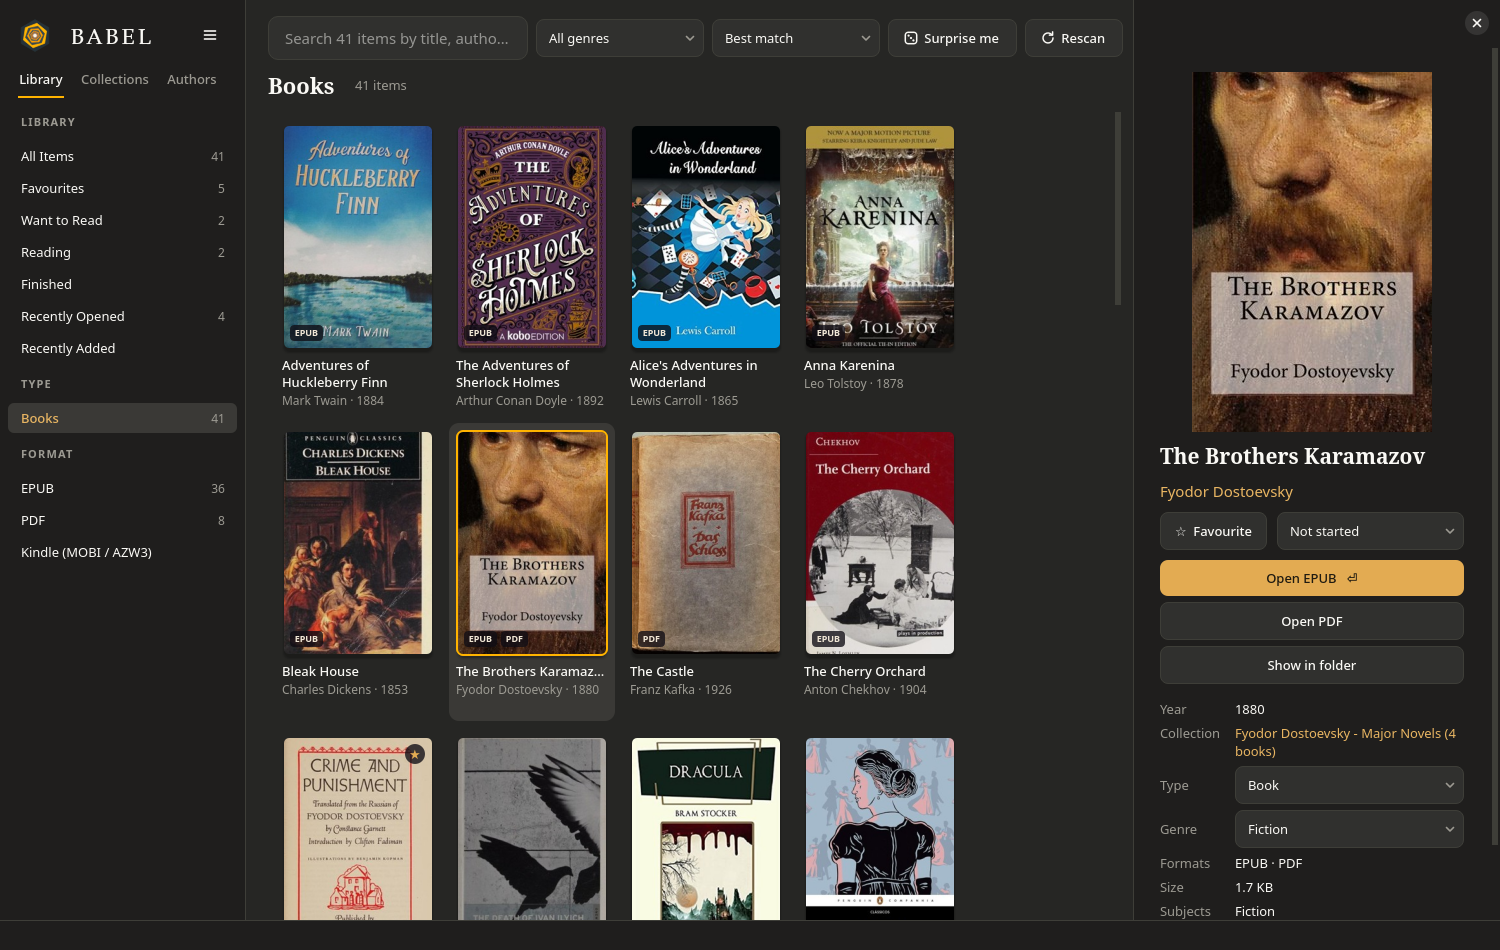
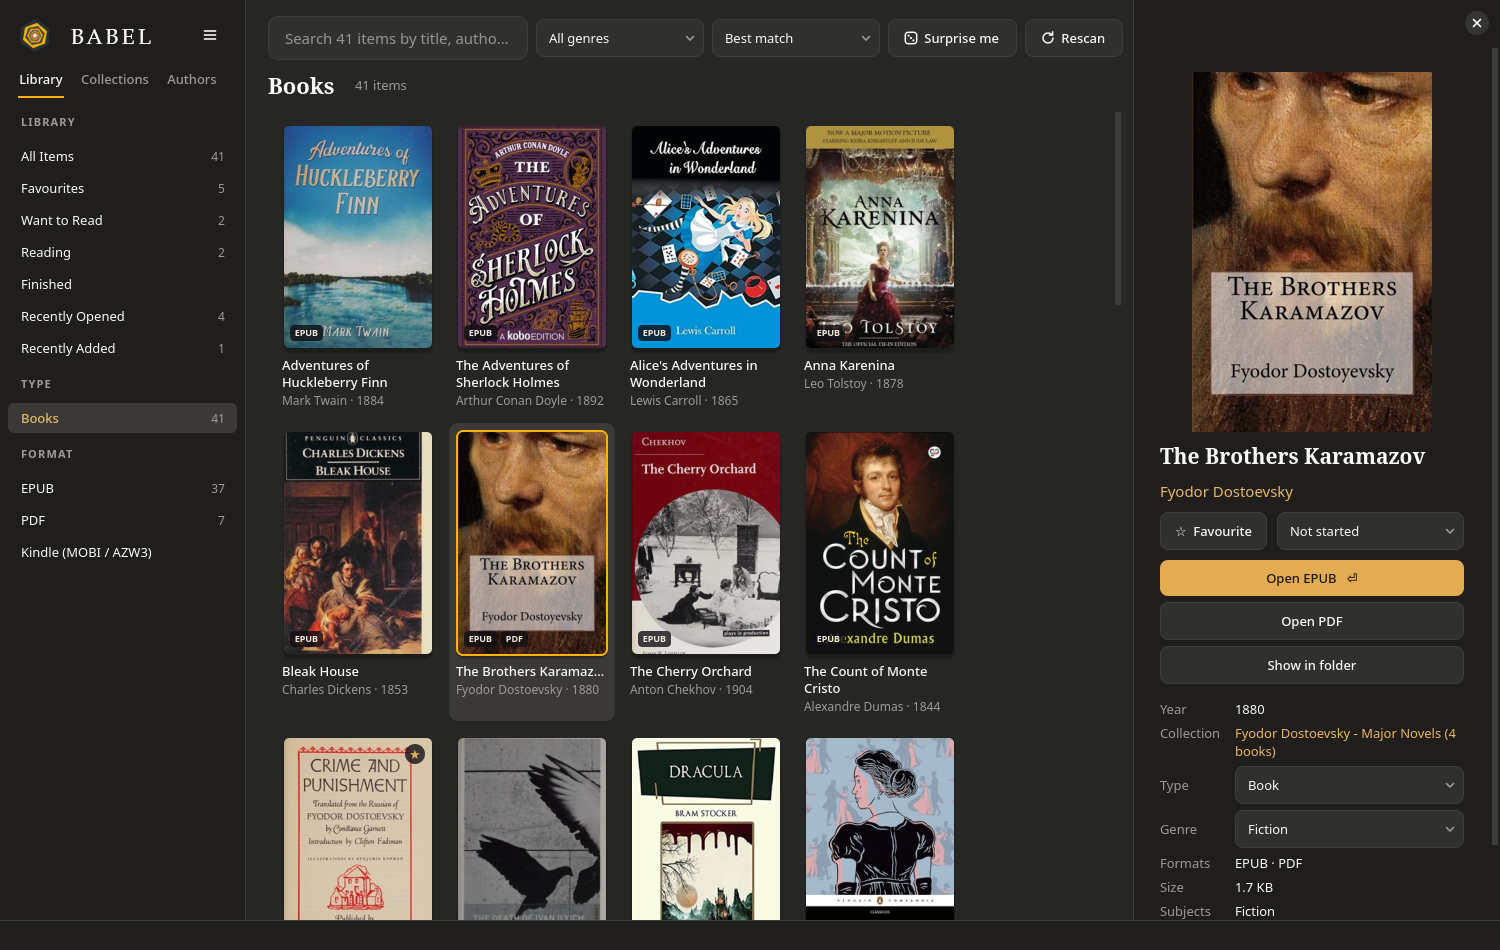
Screenshots: every book in view has a modern cover
Swaps The Castle (no good modern cover available) for The Count of Monte
Cristo in the demo library; credits updated.

Changed region(s): [[0.3987, 0.4274, 0.644, 0.7632]]

diff --git a/docs/CREDITS.md b/docs/CREDITS.md
@@ -34,6 +34,7 @@ Via the [Open Library Covers API](https://openlibrary.org/dev/docs/api/covers). 
 | The Adventures of Sherlock Holmes | [work page](https://openlibrary.org/works/OL262421W) | [cover 14622714](https://covers.openlibrary.org/b/id/14622714-L.jpg) |
 | The Brothers Karamazov | [work page](https://openlibrary.org/works/OL24600223W) | [cover 11263774](https://covers.openlibrary.org/b/id/11263774-L.jpg) |
 | The Cherry Orchard | [work page](https://openlibrary.org/works/OL13052106W) | [cover 12670128](https://covers.openlibrary.org/b/id/12670128-L.jpg) |
+| The Count of Monte Cristo | [work page](https://openlibrary.org/works/OL20098701W) | [cover 15215974](https://covers.openlibrary.org/b/id/15215974-L.jpg) |
 | The Death of Ivan Ilyich | [work page](https://openlibrary.org/works/OL16563010W) | [cover 11616112](https://covers.openlibrary.org/b/id/11616112-L.jpg) |
 | The Idiot | [work page](https://openlibrary.org/works/OL20906897W) | [cover 10249475](https://covers.openlibrary.org/b/id/10249475-L.jpg) |
 | The Metamorphosis | [work page](https://openlibrary.org/works/OL15176533W) | [cover 6889547](https://covers.openlibrary.org/b/id/6889547-L.jpg) |
@@ -52,7 +53,6 @@ Via the [Open Library Covers API](https://openlibrary.org/dev/docs/api/covers). 
 |---|---|---|
 | Poems, First Series | [Poems by Emily Dickinson, Cover.png](https://commons.wikimedia.org/wiki/File:Poems_by_Emily_Dickinson,_Cover.png) | Public domain |
 | Poems, Second Series | [Emily Dickinson Poems - Second Series.jpg](https://commons.wikimedia.org/wiki/File:Emily_Dickinson_Poems_-_Second_Series.jpg) | Public domain |
-| The Castle | [Kafka Das Schloss 1926.jpg](https://commons.wikimedia.org/wiki/File:Kafka_Das_Schloss_1926.jpg) | Public domain |
 
 One book (*Symposium*) uses a cover drawn for the demo.
 
